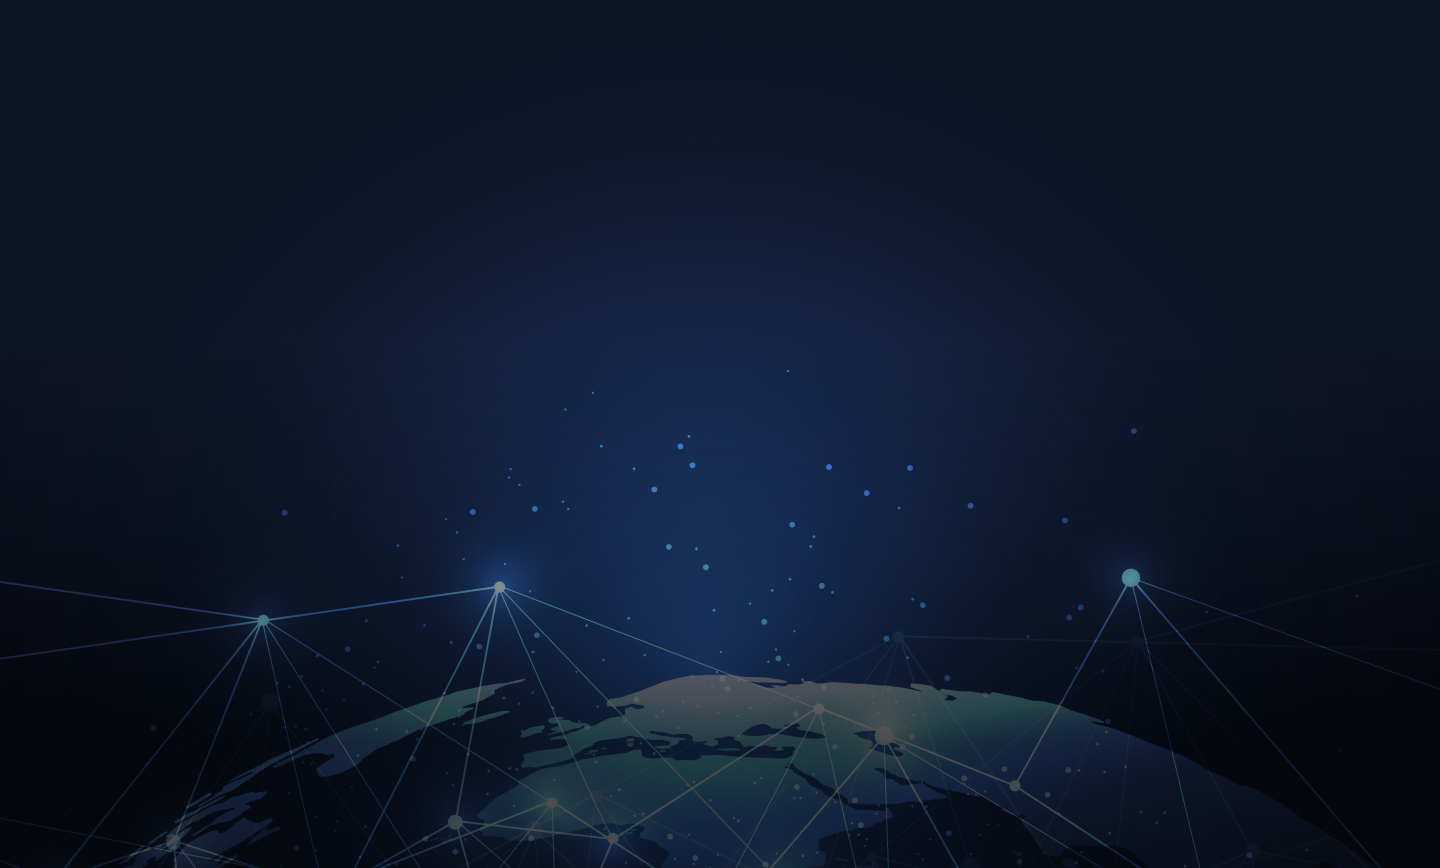
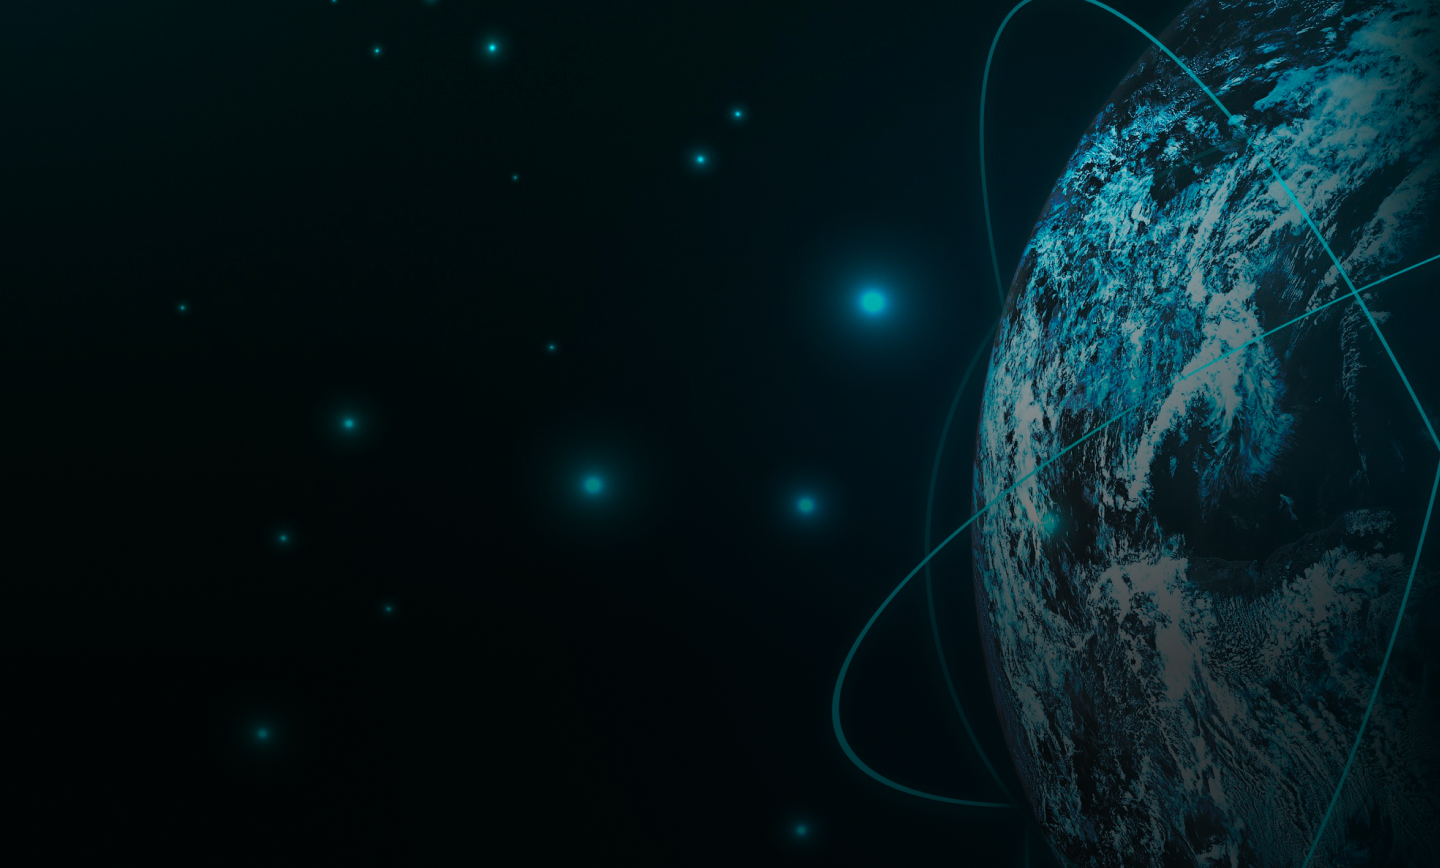
modify

diff --git a/src/components/InternetConnection/InternetConnection.jsx b/src/components/InternetConnection/InternetConnection.jsx
@@ -20,143 +20,155 @@ const InternetConnection = () => {
 
   return (
     <section className="w-full bg-[#F4FCFC] py-20">
-      <div className="container mx-auto max-w-[1080px] px-4 md:px-6">
+      <div className="container max-w-7xl px-4 md:px-6">
         <AnimateOnScroll>
-        <h1 className="text-4xl font-bold text-gray-800 mb-8 text-center">Internet Connection</h1>
-      </AnimateOnScroll>
-      <div className="space-y-16">
-        <div className="grid grid-cols-1 md:grid-cols-3 gap-6">
-          {/* Button 1 */}
-          <AnimateOnScroll delay={100}>
-          <button className="group text-left bg-white p-6 rounded-xl shadow-sm border border-gray-100 hover:shadow-lg transition-all duration-300 h-full flex flex-col transform hover:-translate-y-1 hover:scale-[1.02] active:scale-95 active:shadow-inner">
-            <div className="w-full flex items-center p-2 rounded-lg bg-white group-hover:bg-gray-50 transition-all duration-200">
-              <div className="flex-shrink-0">
-                <Lottie 
-                  animationData={formAnimation} 
-                  loop={true}
-                  className="w-16 h-16"
-                />
-              </div>
-              <div className="ml-4 flex-1">
-                <h2 className="text-xl font-semibold text-gray-800 mb-3">Mau Berlangganan?</h2>
-                <div className="flex items-center justify-between">
-                  <span className="text-base text-primary">Daftar sekarang</span>
-                  <svg className="w-6 h-6 text-primary ml-2" fill="none" stroke="currentColor" viewBox="0 0 24 24" xmlns="http://www.w3.org/2000/svg">
-                    <path strokeLinecap="round" strokeLinejoin="round" strokeWidth={2} d="M14 5l7 7m0 0l-7 7m7-7H3" />
-                  </svg>
+          <h1 className="text-4xl font-bold text-gray-800 mb-8 text-center">
+            Internet Connection
+          </h1>
+        </AnimateOnScroll>
+        
+        <div className="space-y-16">
+          <div className="flex flex-wrap justify-center gap-4 w-full max-w-7xl mx-auto px-4 md:px-6">
+            <div className="w-full sm:max-w-[calc(50%-0.5rem)] lg:max-w-[calc(33.333%-0.666rem)]">
+            {/* Button 1 */}
+            <AnimateOnScroll delay={100} className="w-full h-full">
+              <button className="group bg-white p-5 rounded-xl shadow-sm border border-gray-100 hover:shadow-lg transition-all duration-300 h-full flex flex-col transform hover:-translate-y-1 hover:scale-[1.02] active:scale-95 active:shadow-inner w-full">
+                <div className="w-full flex items-start p-2 rounded-lg bg-white group-hover:bg-gray-50 transition-all duration-200">
+                  <div className="flex-shrink-0 mr-4">
+                    <Lottie 
+                      animationData={formAnimation} 
+                      loop={true}
+                      className="w-14 h-14"
+                    />
+                  </div>
+                  <div className="flex-1">
+                    <h2 className="text-lg font-semibold text-gray-800 mb-3 text-start">Mau Berlangganan?</h2>
+                    <div className="w-full flex items-center justify-between">
+                      <span className="text-base text-primary">Daftar sekarang</span>
+                      <svg className="w-5 h-5 text-primary flex-shrink-0" fill="none" stroke="currentColor" viewBox="0 0 24 24" xmlns="http://www.w3.org/2000/svg">
+                        <path strokeLinecap="round" strokeLinejoin="round" strokeWidth={2} d="M14 5l7 7m0 0l-7 7m7-7H3" />
+                      </svg>
+                    </div>
+                  </div>
                 </div>
-              </div>
-            </div>
-          </button>
-          </AnimateOnScroll>
-          {/* Button 2 */}
-          <AnimateOnScroll delay={200}>
-          <button className="group text-left bg-white p-6 rounded-xl shadow-sm border border-gray-100 hover:shadow-lg transition-all duration-300 h-full flex flex-col transform hover:-translate-y-1 hover:scale-[1.02] active:scale-95 active:shadow-inner">
-            <div className="w-full flex items-center p-2 rounded-lg bg-white group-hover:bg-gray-50 transition-all duration-200">
-              <div className="flex-shrink-0">
-                <Lottie 
-                  animationData={callAnimation} 
-                  loop={true}
-                  className="w-16 h-16"
-                />
-              </div>
-              <div className="ml-4 flex-1">
-                <h2 className="text-xl font-semibold text-gray-800 mb-3">Langganan Lebih Cepat</h2>
-                <div className="flex items-center justify-between">
-                  <span className="text-base text-primary">Chat WhatsApp</span>
-                  <svg className="w-6 h-6 text-primary ml-2" fill="none" stroke="currentColor" viewBox="0 0 24 24" xmlns="http://www.w3.org/2000/svg">
-                    <path strokeLinecap="round" strokeLinejoin="round" strokeWidth={2} d="M14 5l7 7m0 0l-7 7m7-7H3" />
-                  </svg>
-                </div>
-              </div>
-            </div>
-          </button>
-          </AnimateOnScroll>
-          {/* Button 3 */}
-          <AnimateOnScroll delay={300}>
-          <button className="group text-left bg-white p-6 rounded-xl shadow-sm border border-gray-100 hover:shadow-lg transition-all duration-300 h-full flex flex-col transform hover:-translate-y-1 hover:scale-[1.02] active:scale-95 active:shadow-inner">
-            <div className="w-full flex items-center p-2 rounded-lg bg-white group-hover:bg-gray-50 transition-all duration-200">
-              <div className="flex-shrink-0">
-                <Lottie 
-                  animationData={routerAnimation} 
-                  loop={true}
-                  className="w-16 h-16"
-                />
-              </div>
-              <div className="ml-4 flex-1">
-                <h2 className="text-xl font-semibold text-gray-800 mb-3">Cari Paket Internet?</h2>
-                <div className="flex items-center justify-between">
-                  <span className="text-base text-primary">Cek paket</span>
-                  <svg className="w-6 h-6 text-primary ml-2" fill="none" stroke="currentColor" viewBox="0 0 24 24" xmlns="http://www.w3.org/2000/svg">
-                    <path strokeLinecap="round" strokeLinejoin="round" strokeWidth={2} d="M14 5l7 7m0 0l-7 7m7-7H3" />
-                  </svg>
-                </div>
-              </div>
-            </div>
-          </button>
-          </AnimateOnScroll>
-        </div>
-        {/* Coverage Area */}
-        <AnimateOnScroll delay={400}>
-        <div className="bg-white p-8 rounded-xl shadow-sm border border-gray-100">
-          <h2 className="text-2xl font-semibold text-gray-700 mb-6">Check Coverage Area</h2>
-          
-          <div className="grid grid-cols-1 md:grid-cols-12 gap-4 items-end">
-            <div className="md:col-span-5">
-              <label className="block text-sm font-medium text-gray-700 mb-1">Provinsi</label>
-              <select 
-                value={province}
-                onChange={handleProvinceChange}
-                className="w-full p-2.5 border border-gray-300 rounded-md focus:outline-none focus:ring-2 focus:ring-blue-500 text-sm"
-              >
-                <option value="">- Pilih Provinsi -</option>
-                <option value="jawa-barat">Jawa Barat</option>
-                <option value="jawa-timur">Jawa Timur</option>
-                <option value="jawa-tengah">Jawa Tengah</option>
-              </select>
-            </div>
-            
-            <div className="md:col-span-5">
-              <label className="block text-sm font-medium text-gray-700 mb-1">Kota/Kabupaten</label>
-              <select 
-                value={city}
-                onChange={handleCityChange}
-                disabled={!province}
-                className="w-full p-2.5 border border-gray-300 rounded-md focus:outline-none focus:ring-2 focus:ring-blue-500 disabled:bg-gray-100 text-sm"
-              >
-                <option value="">- Pilih Kota/Kabupaten -</option>
-                {province === 'jawa-barat' && (
-                  <>
-                    <option value="bandung">Bandung</option>
-                    <option value="bekasi">Bekasi</option>
-                    <option value="bogor">Bogor</option>
-                  </>
-                )}
-                {province === 'jawa-timur' && (
-                  <>
-                    <option value="surabaya">Surabaya</option>
-                    <option value="malang">Malang</option>
-                    <option value="kediri">Kediri</option>
-                  </>
-                )}
-              </select>
-            </div>
-            
-            <div className="md:col-span-2 flex justify-end">
-              <button className="relative w-full max-w-[160px] bg-primary text-white px-6 py-2.5 rounded-[20px] hover:bg-primary/90 transition-all duration-300 transform hover:-translate-y-0.5 active:translate-y-0 text-sm font-medium whitespace-nowrap group overflow-hidden">
-                <span className="relative z-10 flex items-center justify-center">
-                  <span className="transition-all duration-300 group-hover:mr-2">Cek Lokasi</span>
-                  <svg className="w-4 h-4 opacity-0 -translate-x-2 group-hover:opacity-100 group-hover:translate-x-0 transition-all duration-300" fill="none" stroke="currentColor" viewBox="0 0 24 24" xmlns="http://www.w3.org/2000/svg">
-                    <path strokeLinecap="round" strokeLinejoin="round" strokeWidth="2" d="M14 5l7 7m0 0l-7 7m7-7H3"></path>
-                  </svg>
-                </span>
-                <span className="absolute inset-0 bg-gradient-to-r from-primary to-primary/80 opacity-0 group-hover:opacity-100 transition-opacity duration-300"></span>
               </button>
+            </AnimateOnScroll>
+            
+            {/* Button 2 */}
             </div>
+            <div className="w-full sm:max-w-[calc(50%-0.5rem)] lg:max-w-[calc(33.333%-0.666rem)]">
+            <AnimateOnScroll delay={200} className="w-full h-full">
+              <button className="group bg-white p-5 rounded-xl shadow-sm border border-gray-100 hover:shadow-lg transition-all duration-300 h-full flex flex-col transform hover:-translate-y-1 hover:scale-[1.02] active:scale-95 active:shadow-inner w-full">
+                <div className="w-full flex items-start p-2 rounded-lg bg-white group-hover:bg-gray-50 transition-all duration-200">
+                  <div className="flex-shrink-0 mr-4">
+                    <Lottie 
+                      animationData={callAnimation} 
+                      loop={true}
+                      className="w-14 h-14"
+                    />
+                  </div>
+                  <div className="flex-1">
+                    <h2 className="text-lg font-semibold text-gray-800 mb-3 text-start">Langganan Lebih Cepat</h2>
+                    <div className="w-full flex items-center justify-between">
+                      <span className="text-base text-primary">Chat WhatsApp</span>
+                      <svg className="w-5 h-5 text-primary flex-shrink-0" fill="none" stroke="currentColor" viewBox="0 0 24 24" xmlns="http://www.w3.org/2000/svg">
+                        <path strokeLinecap="round" strokeLinejoin="round" strokeWidth={2} d="M14 5l7 7m0 0l-7 7m7-7H3" />
+                      </svg>
+                    </div>
+                  </div>
+                </div>
+              </button>
+            </AnimateOnScroll>
+            
+            {/* Button 3 */}
+            </div>
+            <div className="w-full sm:max-w-[calc(50%-0.5rem)] lg:max-w-[calc(33.333%-0.666rem)]">
+            <AnimateOnScroll delay={300} className="w-full h-full">
+              <button className="group bg-white p-5 rounded-xl shadow-sm border border-gray-100 hover:shadow-lg transition-all duration-300 h-full flex flex-col transform hover:-translate-y-1 hover:scale-[1.02] active:scale-95 active:shadow-inner w-full">
+                <div className="w-full flex items-start p-2 rounded-lg bg-white group-hover:bg-gray-50 transition-all duration-200">
+                  <div className="flex-shrink-0 mr-4">
+                    <Lottie 
+                      animationData={routerAnimation} 
+                      loop={true}
+                      className="w-14 h-14"
+                    />
+                  </div>
+                  <div className="flex-1">
+                    <h2 className="text-lg font-semibold text-gray-800 mb-3 text-start">Cari Paket Internet?</h2>
+                    <div className="w-full flex items-center justify-between">
+                      <span className="text-base text-primary">Cek paket</span>
+                      <svg className="w-5 h-5 text-primary flex-shrink-0" fill="none" stroke="currentColor" viewBox="0 0 24 24" xmlns="http://www.w3.org/2000/svg">
+                        <path strokeLinecap="round" strokeLinejoin="round" strokeWidth={2} d="M14 5l7 7m0 0l-7 7m7-7H3" />
+                      </svg>
+                    </div>
+                  </div>
+                </div>
+              </button>
+            </AnimateOnScroll>
           </div>
+          </div>
+          
+          {/* Coverage Area */}
+          <AnimateOnScroll delay={400}>
+            <div className="bg-white p-6 md:p-10 rounded-xl shadow-sm border border-gray-100 w-full max-w-7xl mx-auto">
+              <h2 className="text-xl md:text-2xl font-semibold text-gray-700 mb-4 md:mb-5">Check Coverage Area</h2>
+              
+              <div className="grid grid-cols-1 md:grid-cols-12 gap-3 md:gap-4 items-end">
+                <div className="md:col-span-5">
+                  <label className="block text-sm font-medium text-gray-700 mb-1">Provinsi</label>
+                  <select 
+                    value={province}
+                    onChange={handleProvinceChange}
+                    className="w-full p-2.5 border border-gray-300 rounded-md focus:outline-none focus:ring-2 focus:ring-blue-500 text-sm"
+                  >
+                    <option value="">- Pilih Provinsi -</option>
+                    <option value="jawa-barat">Jawa Barat</option>
+                    <option value="jawa-timur">Jawa Timur</option>
+                    <option value="jawa-tengah">Jawa Tengah</option>
+                  </select>
+                </div>
+                
+                <div className="md:col-span-5">
+                  <label className="block text-sm font-medium text-gray-700 mb-1">Kota/Kabupaten</label>
+                  <select 
+                    value={city}
+                    onChange={handleCityChange}
+                    disabled={!province}
+                    className="w-full p-2.5 border border-gray-300 rounded-md focus:outline-none focus:ring-2 focus:ring-blue-500 disabled:bg-gray-100 text-sm"
+                  >
+                    <option value="">- Pilih Kota/Kabupaten -</option>
+                    {province === 'jawa-barat' && (
+                      <>
+                        <option value="bandung">Bandung</option>
+                        <option value="bekasi">Bekasi</option>
+                        <option value="bogor">Bogor</option>
+                      </>
+                    )}
+                    {province === 'jawa-timur' && (
+                      <>
+                        <option value="surabaya">Surabaya</option>
+                        <option value="malang">Malang</option>
+                        <option value="kediri">Kediri</option>
+                      </>
+                    )}
+                  </select>
+                </div>
+                
+                <div className="md:col-span-2 flex justify-center">
+                  <button className="relative w-full max-w-[160px] bg-primary text-white px-6 py-2.5 rounded-[20px] hover:bg-primary/90 transition-all duration-300 transform hover:-translate-y-0.5 active:translate-y-0 text-sm font-medium whitespace-nowrap group overflow-hidden">
+                    <span className="relative z-10 flex items-center justify-center">
+                      <span className="transition-all duration-300 group-hover:mr-2">Cek Lokasi</span>
+                      <svg className="w-4 h-4 opacity-0 -translate-x-2 group-hover:opacity-100 group-hover:translate-x-0 transition-all duration-300" fill="none" stroke="currentColor" viewBox="0 0 24 24" xmlns="http://www.w3.org/2000/svg">
+                        <path strokeLinecap="round" strokeLinejoin="round" strokeWidth="2" d="M14 5l7 7m0 0l-7 7m7-7H3"></path>
+                      </svg>
+                    </span>
+                    <span className="absolute inset-0 bg-gradient-to-r from-primary to-primary/80 opacity-0 group-hover:opacity-100 transition-opacity duration-300"></span>
+                  </button>
+                </div>
+              </div>
+            </div>
+          </AnimateOnScroll>
         </div>
-      </AnimateOnScroll>
-      </div>
       </div>
     </section>
   );

diff --git a/src/components/Hero/Hero.jsx b/src/components/Hero/Hero.jsx
@@ -9,22 +9,23 @@ const Hero = () => {
   };
 
   return (
-    <section className="relative min-h-screen flex items-center justify-center text-white text-center py-32 bg-[url('/src/assets/images/hero-bg.png')] bg-cover bg-center">
-      <div className="container relative z-10">
+    <section className="relative min-h-screen flex items-center text-white py-32 bg-[url('/src/assets/images/hero-bg.png')] bg-cover bg-center bg-no-repeat bg-fixed">
+      <div className="absolute inset-0 bg-black/30"></div>
+      <div className="container relative z-10 px-4 md:px-6">
         <AnimateOnScroll>
-          <h1 className="text-2xl sm:text-5xl md:text-6xl lg:text-6xl font-bold mb-8 text-center text-white leading-normal max-w-4xl mx-auto">
+          <h1 className="text-4xl sm:text-5xl md:text-7xl font-bold mb-8 text-center lg:text-left text-white leading-tight max-w-4xl mx-auto lg:mx-0">
             Koneksi Andal, Inovasi Nyata Bersama Konektiva
           </h1>
         </AnimateOnScroll>
         <AnimateOnScroll delay={100}>
-          <p className="text-xl sm:text-xl md:text-2xl lg:text-2xl mb-12 max-w-3xl mx-auto">
+          <p className="text-xl sm:text-xl md:text-2xl mb-8 max-w-3xl text-center lg:text-left mx-auto lg:mx-0">
             Kami menghadirkan lebih dari sekadar koneksi, kami bantu Anda tumbuh melalui teknologi yang tepat.
           </p>
         </AnimateOnScroll>
-        <AnimateOnScroll delay={200}>
+        <AnimateOnScroll delay={200} className="flex justify-center lg:justify-start">
           <button 
             onClick={handleWhatsAppClick}
-            className="text-white px-1 py-1 rounded-[100px] flex items-center gap-3 mx-auto shadow-lg transition-all duration-300 border border-white/30 bg-white/20 backdrop-blur-sm hover:bg-white/30 hover:border-white/50 group cursor-pointer"
+            className="text-white px-1 py-1 rounded-[100px] flex items-center gap-3 shadow-lg transition-all duration-300 border border-white/30 bg-white/20 backdrop-blur-sm hover:bg-white/30 hover:border-white/50 group cursor-pointer"
           >
             <span className="ml-6">Hubungi Kami</span>
             <span className="w-10 h-10 bg-primary rounded-full flex items-center justify-center text-white group-hover:scale-110 transform transition-transform duration-300 ease-in-out">
